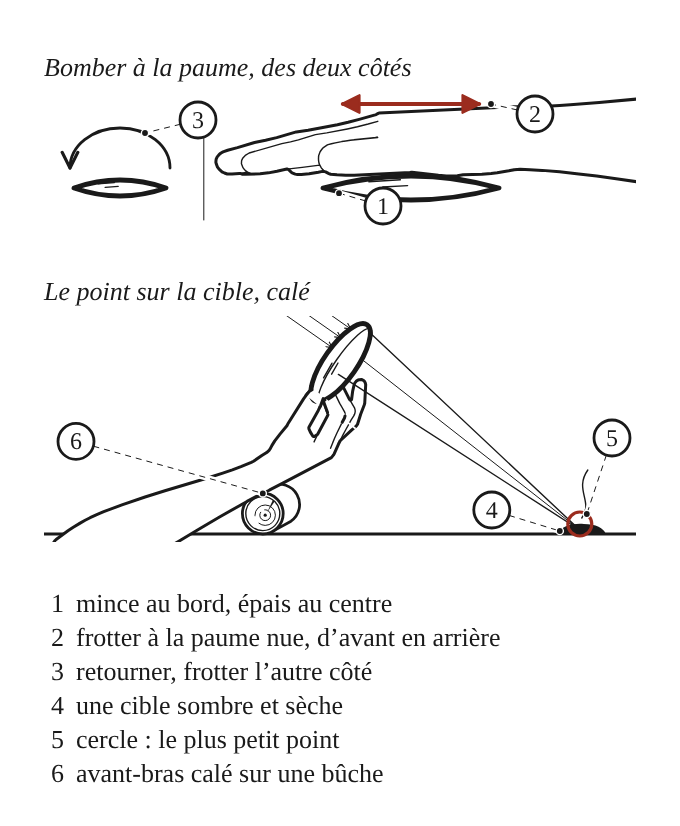
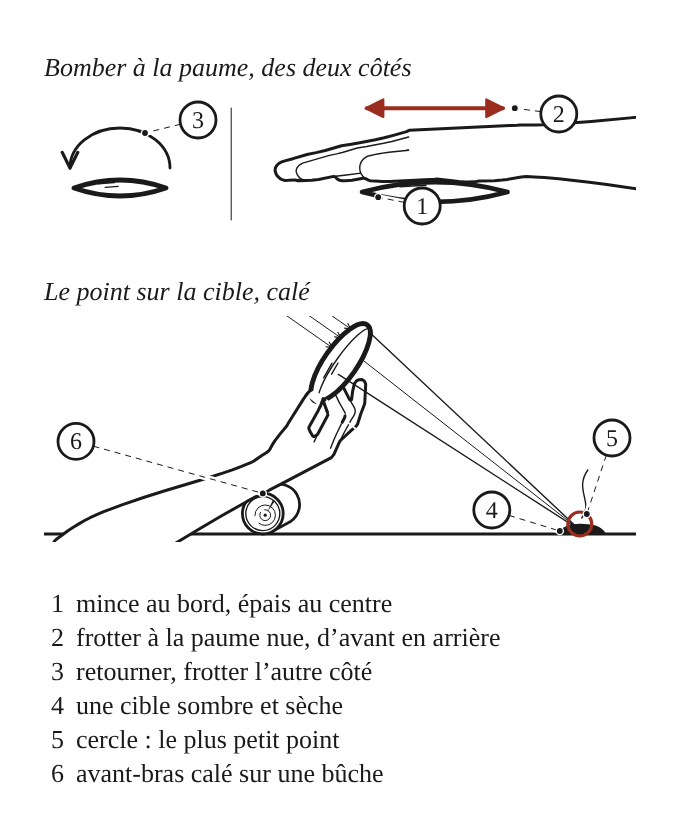
Planche 13-11 : vignette « retourner le disque » ; renvois du ch. 13 mis d'accord avec ses repères
Claude-Session: https://claude.ai/code/session_014xDY5FLxFXDJt3nYAYznSZ

Changed region(s): [[0.3088, 0.0908, 0.9265, 0.2724]]

diff --git a/images/planches-src/13-11.js b/images/planches-src/13-11.js
@@ -51,7 +51,7 @@ module.exports = (h) => {
   // ── Vue 1 : polir ── le disque de pleine tranche, la paume à plat dessus, l'avant-bras jusqu'au bord ; à gauche, une
   // petite vignette : le disque seul, de profil, et une flèche qui le fait basculer (on le retourne).
   const polir = z => {
-    const e = 0.8, c = [z.l * 0.62, z.h - 20], D = 110 * e, ep = 15 * e;
+    const e = 0.66, c = [z.l * 0.66, z.h - 18], D = 110 * e, ep = 15 * e;
     const v = [38, z.h - 20], Dv = 46, epv = 8;
     return { e, c, D, ep, v, Dv, epv };
   };

diff --git a/chapitres/13-feu-sans-allumettes.md b/chapitres/13-feu-sans-allumettes.md
@@ -163,10 +163,10 @@ Sans tige de ferrocérium : le briquet à pierre, la batterie, le soleil ou l'ar
 
 22. **Choisir une cible sombre et sèche** : de l'amadou carbonisé (étape 25), du bois pourri sec et brun,
  de l'écorce intérieure noircie. Le point de lumière fait fumer une matière sombre ; sur une matière blanche, il ne fait presque rien
- (planche 13-11, repère 3).
+ (planche 13-11, repère 4).
 23. **Faire le plus petit point de lumière possible et le tenir immobile** sur la cible : avancer ou reculer
  la lentille jusqu'à ce que le point soit le plus petit et le plus brillant, puis caler la lentille et les
- mains sur un appui (planche 13-11, repères 4 et 5). Il faut un soleil franc.
+ mains sur un appui (planche 13-11, repères 5 et 6). Il faut un soleil franc.
 24. **Souffler doucement dès que la cible fume**, la poser dans le nid et souffler (étape 16).
 
 ### Faire de l'amadou carbonisé
@@ -397,7 +397,7 @@ fil plus gros : le même montage sert à souder (ch. 107).
 
 **Une lentille de glace.** Prendre de la glace de lac claire, sans bulles. En faire un disque large comme
 la main, plus mince au bord qu'au centre, puis le bomber des deux côtés en le frottant à la paume nue,
-jusqu'à ce que la glace, en fondant, devienne lisse et claire (planche 13-11, repères 1 et 2).
+jusqu'à ce que la glace, en fondant, devienne lisse et claire (planche 13-11, repères 1 à 3).
 
 **Le réflecteur d'une lampe de poche ou d'un phare.** Enlever la vitre et l'ampoule, pointer le réflecteur
 vers le soleil, et mettre l'amadou à la place de l'ampoule.
